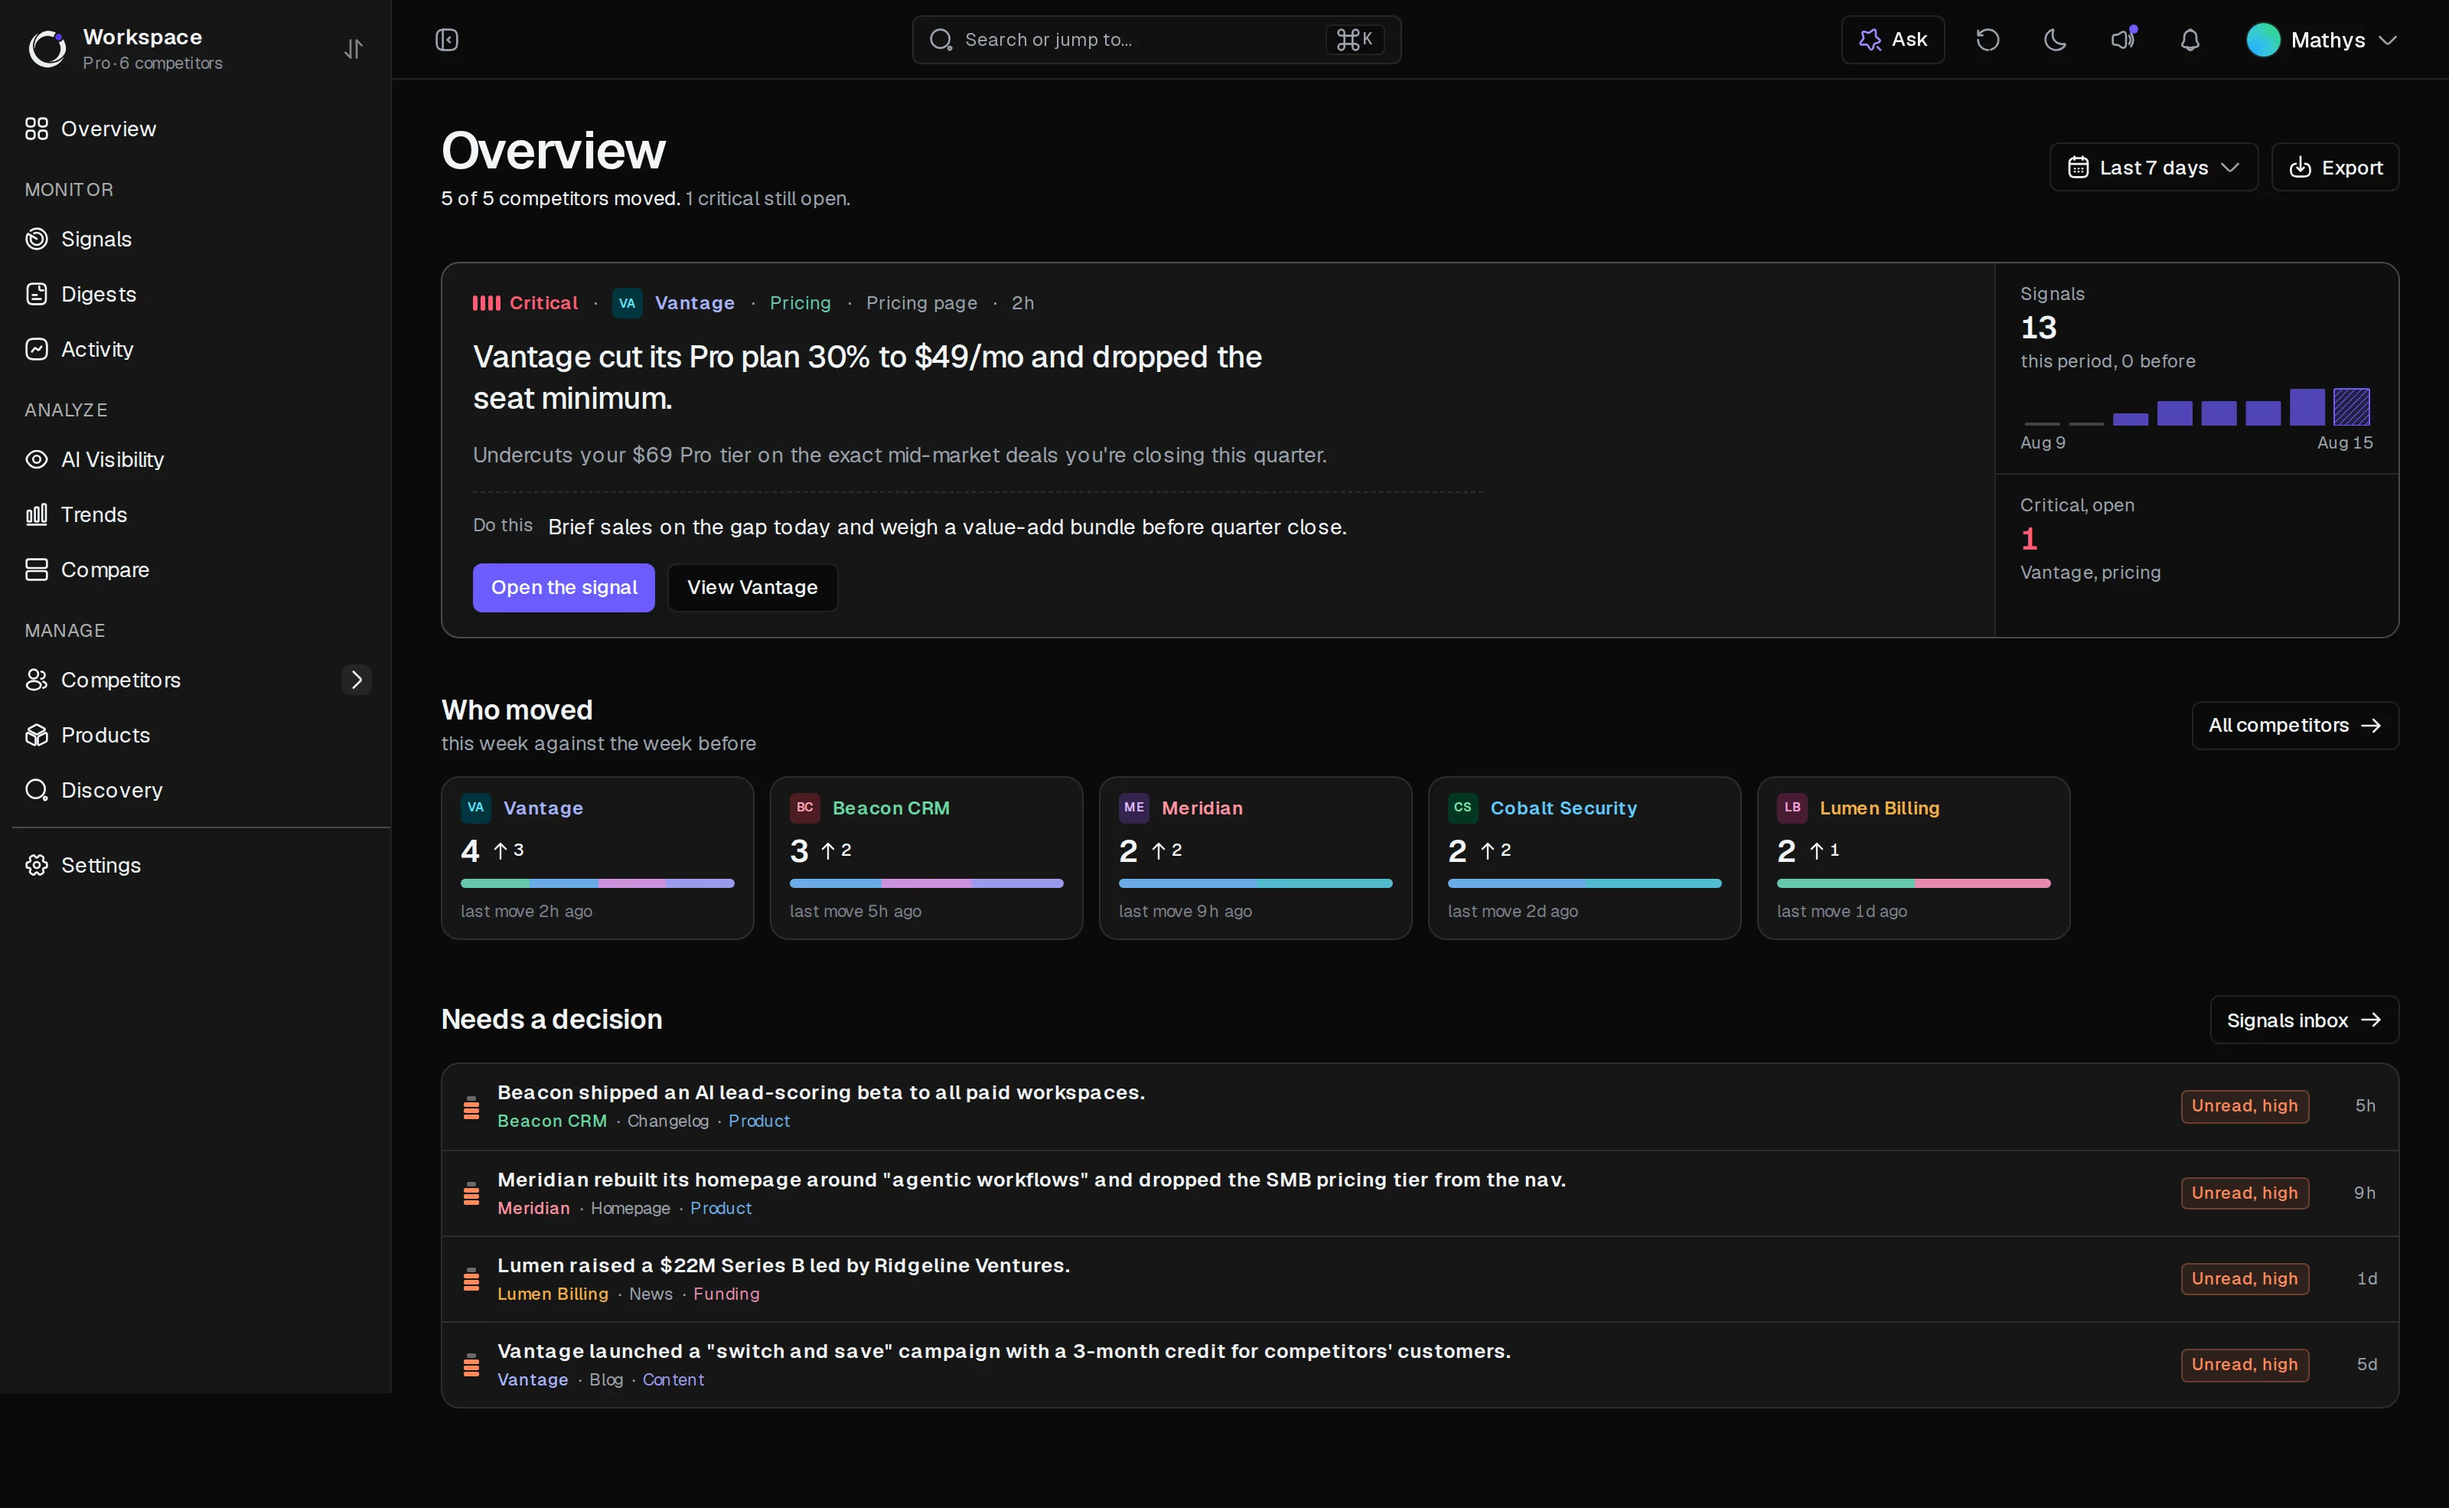
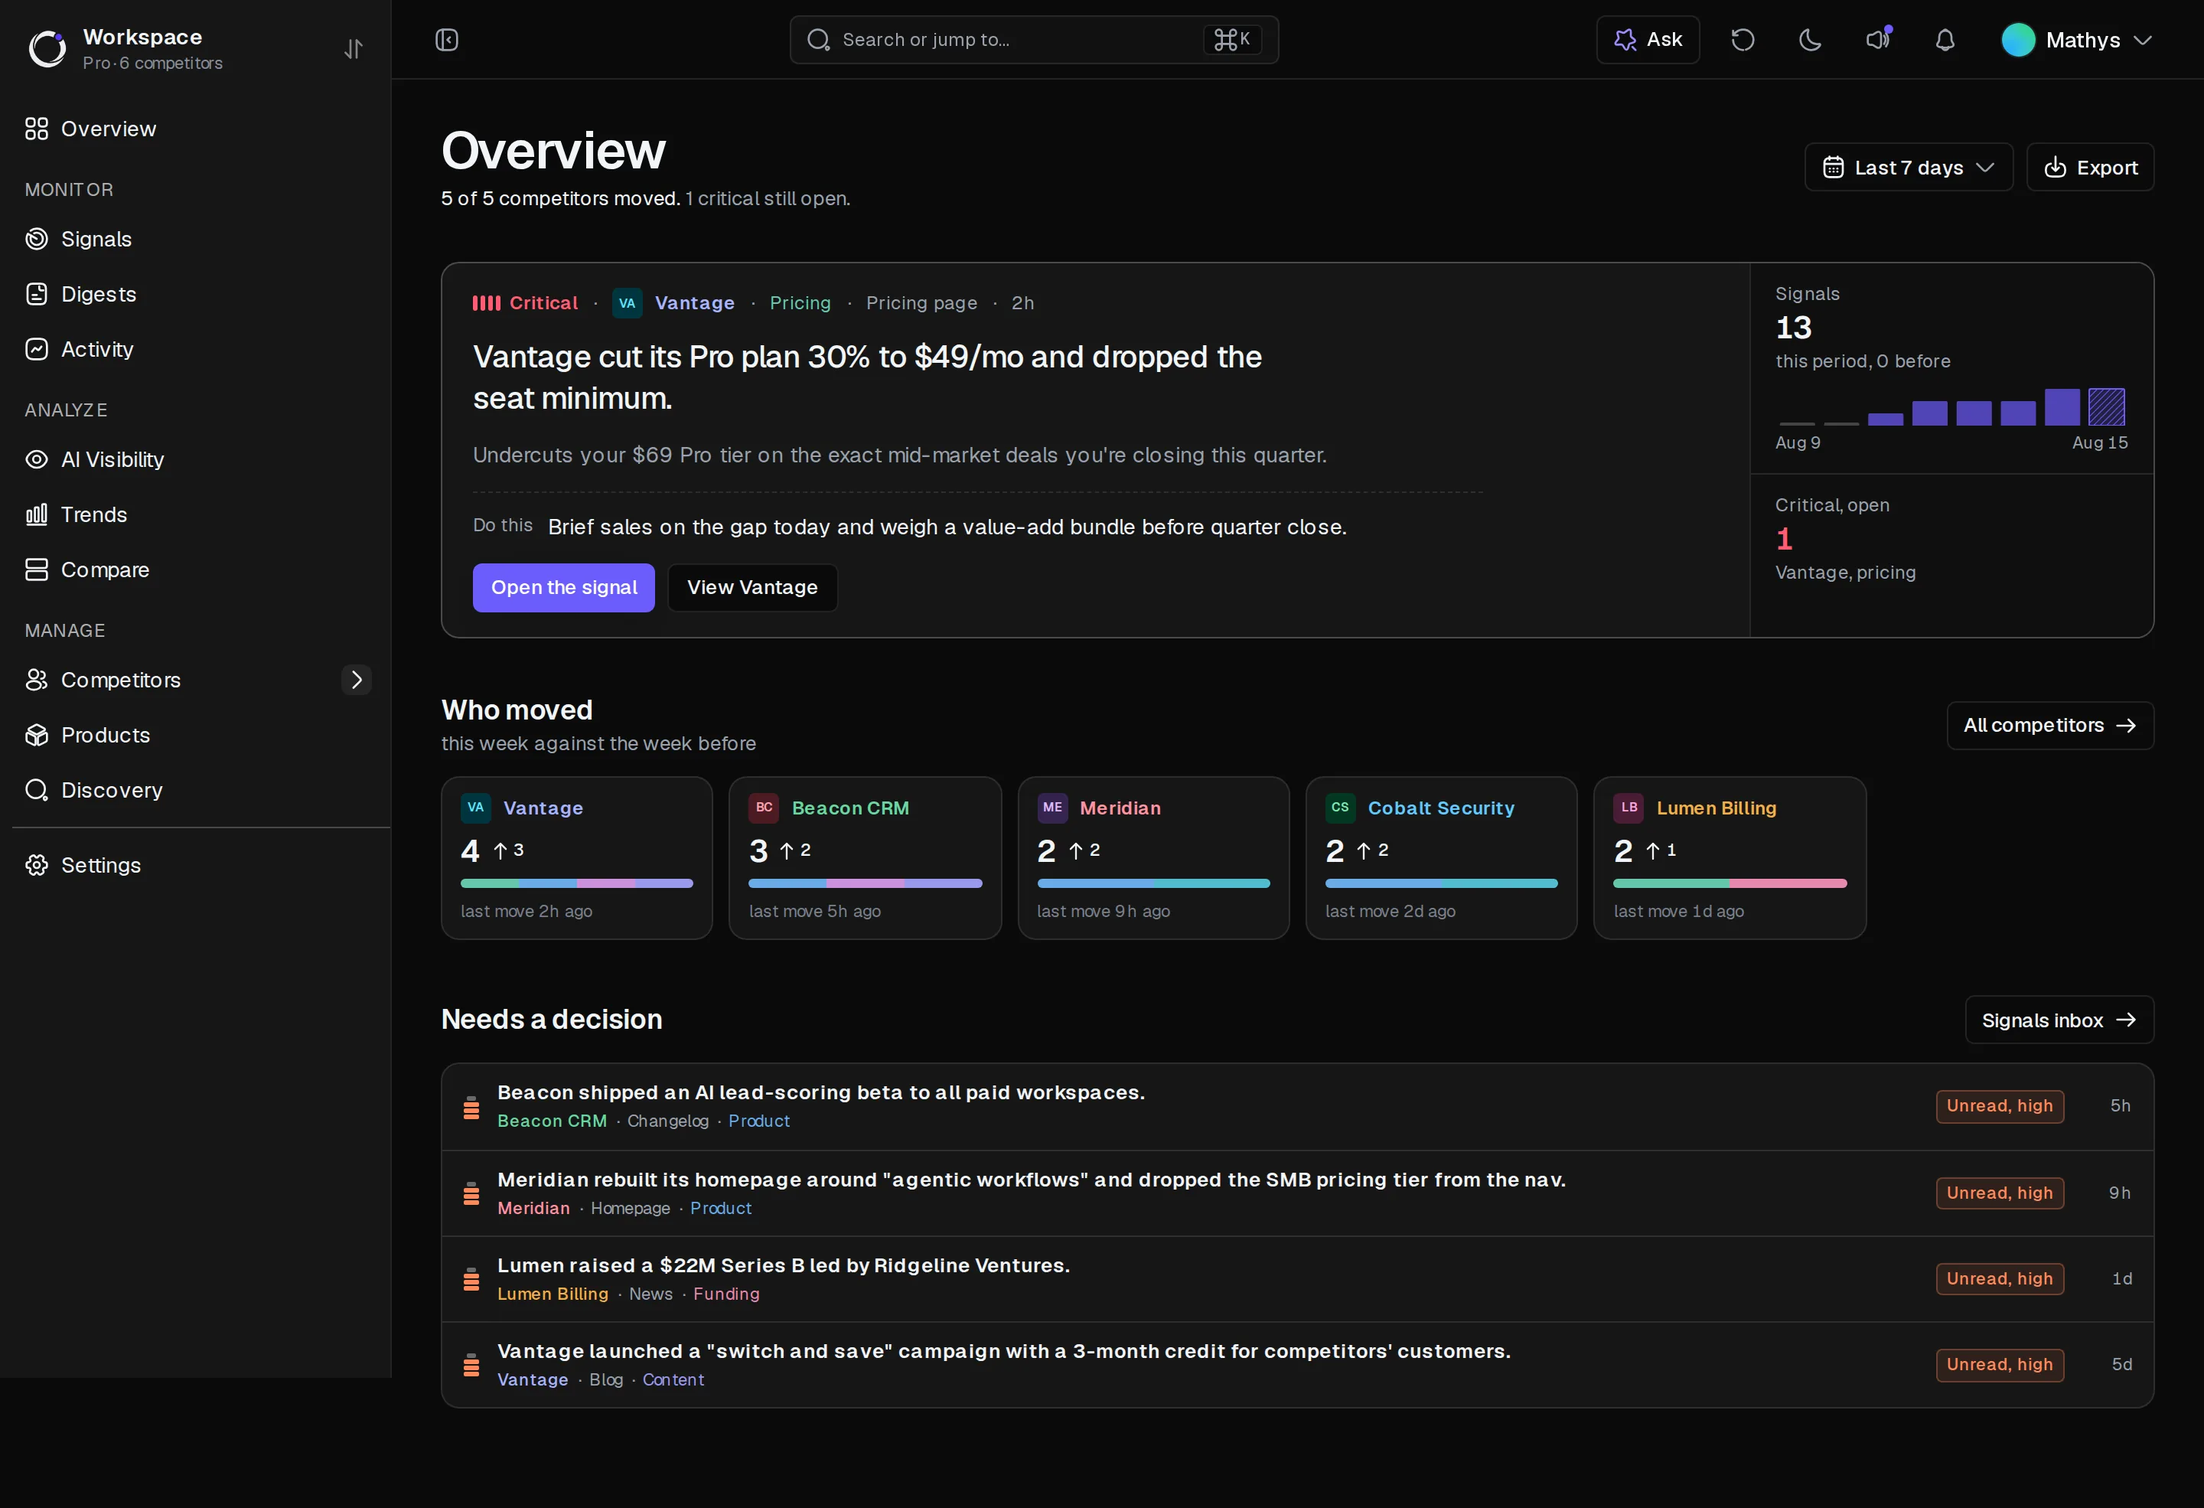
fix(web): make the app shot readable, not decorative
The capture was 1600px of UI squeezed into the band's 976px column and then
re-encoded at Next's default q75, so the app's 13px type arrived at 60% scale
and half-legible. A screenshot nobody can read is a texture, not proof.

It now bleeds past the text measure to ~1408px, which is also the viewport it
is captured at, so the app renders close to 1:1; q90 keeps the glyphs from
smearing. The click-to-enlarge lightbox goes with it: at that width it opened
something smaller than the page already showed, and it was the only reason
this block reached for a client component.

The compact hero grows from 62dvh to 74dvh. The fade into the paper band is
the bottom 13rem of the hero, which on a short hero starts before the headline
has landed, so the transition read as an accident rather than a transition.

diff --git a/apps/web/src/components/landing/compare/product-proof.tsx b/apps/web/src/components/landing/compare/product-proof.tsx
@@ -1,4 +1,4 @@
-import { ProductShot } from "../product-shot";
+import Image from "next/image";
 
 // Visual proof for the comparison / alternatives pages: one capture of the
 // whole app — real sidebar, real topbar, real Overview — regenerated by
@@ -13,6 +13,12 @@ import { ProductShot } from "../product-shot";
 // It renders no section or padding of its own: the caller drops it inside a
 // <Band>, which owns the band's tone and rhythm. That is what lets the same
 // block sit on graphite here and on paper elsewhere without a second variant.
+//
+// Not <ProductShot>: the shot bleeds past the band's 66rem measure to ~1408px,
+// which is the width it was captured at, so the app's own 13px type lands ~1:1
+// instead of downscaled to 60%. At that size a click-to-enlarge lightbox opens
+// something smaller than what is already on screen, so it goes — and with it
+// the client boundary this block used to pull in.
 
 const POINTS = [
   {
@@ -43,14 +49,21 @@ export function ProductProof({ lead }: { lead?: string }) {
         </p>
       </div>
       <div className="lp-proof">
-        <ProductShot
-          src="/product/dashboard.webp"
-          alt="The Outrival dashboard: a left sidebar with Overview, Signals, Digests, Activity, AI Visibility, Trends, Compare and Competitors; the Overview page showing a critical pricing signal (a competitor cut its Pro plan 30% to $49 a month) with the recommended action, a Who moved band of five competitors ranked by activity, and a Needs a decision queue of unread high-severity signals."
-          width={3200}
-          height={1970}
-          sizes="(min-width: 1088px) 1056px, 100vw"
-          caption="One week in the app: the lead signal, who moved, and what still needs a decision."
-        />
+        <figure className="lp-proof-shot">
+          <Image
+            src="/product/dashboard.webp"
+            alt="The Outrival dashboard: a left sidebar with Overview, Signals, Digests, Activity, AI Visibility, Trends, Compare and Competitors; the Overview page showing a critical pricing signal (a competitor cut its Pro plan 30% to $49 a month) with the recommended action, a Who moved band of five competitors ranked by activity, and a Needs a decision queue of unread high-severity signals."
+            width={2880}
+            height={1970}
+            sizes="(min-width: 1456px) 1408px, calc(100vw - 3rem)"
+            quality={90}
+            className="h-auto w-full"
+          />
+          <figcaption>
+            One week in the app: the lead signal, who moved, and what still needs
+            a decision.
+          </figcaption>
+        </figure>
         <ul className="lp-proof-points">
           {POINTS.map((p) => (
             <li key={p.label}>

diff --git a/apps/web/src/app/globals.css b/apps/web/src/app/globals.css
@@ -3695,9 +3695,11 @@ html:has(.landing-canvas) {
 }
 /* Pages whose subject is the text right underneath — an article, a policy,
    a changelog. A full fold of fog in front of a retention table is a wall,
-   so they get the same opening at half the height. */
+   so they get the same opening at two thirds of the height. Not less: the
+   bottom 13rem is the mask fading the fog into the paper band, and under
+   ~70dvh that fade starts before the headline has finished. */
 .lp-page-hero.is-compact {
-  min-height: 62dvh;
+  min-height: 74dvh;
 }
 /* The compact hero belongs to the text under it, so it takes that column's
    measure — otherwise the headline sits 10rem left of its own first
@@ -3869,6 +3871,26 @@ html:has(.landing-canvas) {
    ever moves off the graphite band. */
 .lp-proof {
   margin-top: 2.75rem;
+}
+/* The shot is the argument, so it leaves the band's 66rem measure and takes
+   the fold: capped at the 1408px it was captured at, gutters below that. The
+   points underneath stay on the text column. */
+.lp-proof-shot {
+  width: min(100vw - 3rem, 88rem);
+  margin-left: calc(50% - min(50vw - 1.5rem, 44rem));
+}
+.lp-proof-shot img {
+  display: block;
+  border-radius: 14px;
+  box-shadow:
+    inset 0 0 0 1px color-mix(in oklab, currentColor 14%, transparent),
+    0 2px 6px rgba(0, 0, 0, 0.18),
+    0 24px 60px -20px rgba(0, 0, 0, 0.55);
+}
+.lp-proof-shot figcaption {
+  margin-top: 1rem;
+  font-size: var(--text-dense);
+  color: color-mix(in oklab, currentColor 55%, transparent);
 }
 .lp-proof-points {
   list-style: none;

diff --git a/apps/web/next.config.ts b/apps/web/next.config.ts
@@ -42,6 +42,12 @@ const nextConfig: NextConfig = {
     // shells stay reusable longer. Experimental flag, but stable since 14.2.
     staleTimes: { dynamic: 30, static: 180 },
   },
+  images: {
+    // Next 16 only serves the qualities listed here (default: [75] alone). The
+    // product captures are dense UI at 13px type, where q75 smears the glyphs —
+    // they ask for 90. Everything else stays on the default.
+    qualities: [75, 90],
+  },
   // Baseline security headers on every response. Deliberately NO full
   // Content-Security-Policy (default-src/script-src): the app loads Turnstile,
   // Stripe, PostHog and Sentry from third-party origins plus Next's own inline
